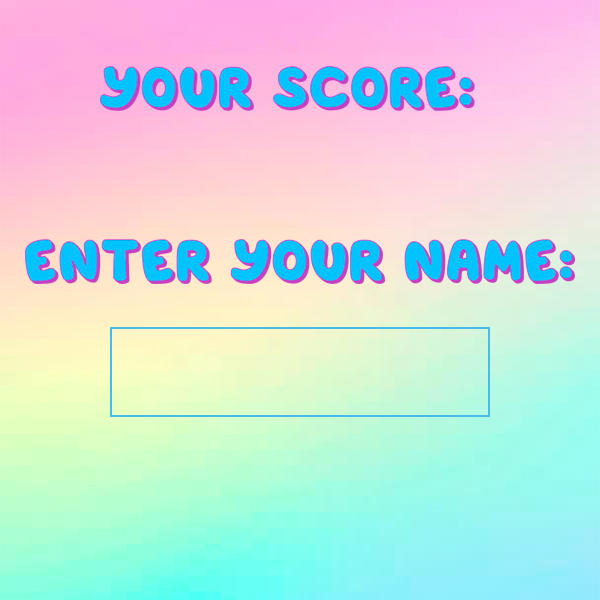
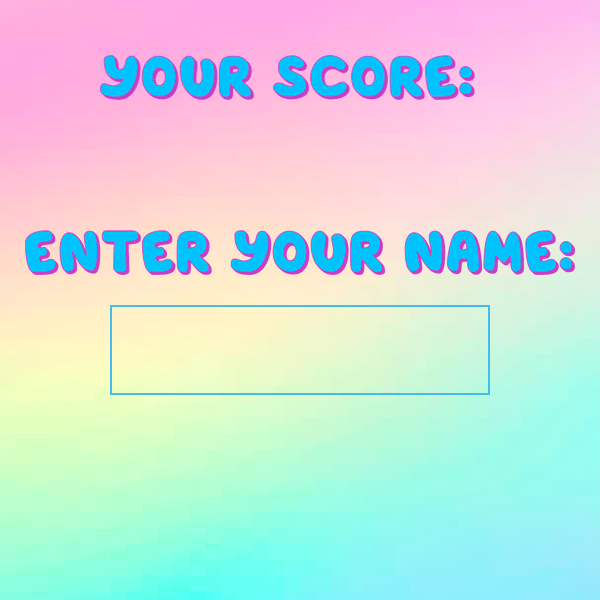
commit_9

diff --git a/methods.py b/methods.py
@@ -66,11 +66,13 @@ def update_buttons(buttons : list[dict], events : list[pg.event.Event], max_inde
 
                     if id == ENTER_BUTTON:
                         if globals.get_username_ok():
+                            username = globals.get_username()
+                            globals.set_username(username[:-1])
                             user_data = library.get_user_data()
-                            library.add_user_data(user_data)
+                            library.add_user_data(SCORES_CSV, user_data)
                             library.get_user_scores(SCORES_CSV)
                             globals.disable_instances()
-                            globals.set_home_on(True)
+                            globals.set_reset_on(True)
 
 
 def update_question(question : dict):
@@ -151,8 +153,7 @@ def update_gameover(events : list[pg.event.Event]):
 
     if time == 0:
         globals.disable_instances()
-        globals.set_reset_on(True)
-        # globals.set_username_on(True)
+        globals.set_username_on(True)
 
 
 def update_scores(scores : list[dict], top : int=1):
@@ -171,31 +172,33 @@ def update_scores(scores : list[dict], top : int=1):
 
 
 def update_username(events : list[pg.event.Event]):
-    font_color = VIOLET
-    font_sys = pg.font.SysFont(FONT_SEGOE, FONT_SIZE_SCORES, BOLD_ENABLE)
     username = globals.get_username()
-    score = globals.get_score()
-    if username == VOID_STR : username += HYPHEN_STR
+    warning = globals.get_warning()
+    if username == VOID_STR : globals.set_username(HYPHEN_STR)
+    if warning == VOID_STR : globals.set_warning(WARNING_MIN_MAX)
 
     for e in events:
         if e.type == pg.KEYDOWN:
             if e.key == pg.K_BACKSPACE:
-                if len(username) > 1 : username = username[:-2] + HYPHEN_STR
+                if len(username) > 1:
+                    username = username[:-2] + HYPHEN_STR
+                    globals.set_username(username)
             else:
-                if not library.is_letter(e.unicode):
-                    globals.set_warning(WARNING_USE_LETTERS)
+                if not e.unicode == VOID_STR:
+                    if not library.is_letter(e.unicode):
+                        globals.set_warning(WARNING_USE_LETTERS)
+                    else:
+                        if len(username) - INT_1 < USERNAME_LEN_MAX:
+                            username = username[:-1] + e.unicode + HYPHEN_STR
+                            globals.set_username(username.upper())
+                        
+                        if len(username) - INT_1 < USERNAME_LEN_MIN:
+                            globals.set_warning(WARNING_MIN_MAX)
+                        else:
+                            globals.set_warning(WARNING_NAME_OK)
+                            globals.set_username_ok(True)
                 else:
-                    if len(username) - 1 < USERNAME_LEN_MAX:
-                        username = username[:-1] + e.unicode + HYPHEN_STR
-                        globals.set_username(username)
-        else:
-            if len(username) < USERNAME_LEN_MIN:
-                globals.set_warning(WARNING_MIN_MAX)
-            else:
-                globals.set_warning(WARNING_NAME_OK)
-                globals.set_username_ok(True)
-
-    
+                    globals.set_warning(WARNING_USE_LETTERS)
 
 # ------------------------------------------------------------------------------------------- #
 
@@ -297,18 +300,37 @@ def draw_game(screen : pg.surface.Surface, questions : list[dict], labels : list
     
 
 def draw_username(screen : pg.surface.Surface):
-    font_color = VIOLET
+    draw_username_itself(screen, font_color=VIOLET)
+    draw_username_score(screen, font_color=VIOLET)
+    draw_warning(screen)
+    
+
+def draw_username_itself(screen : pg.surface.Surface, font_color : tuple):
     font_sys = pg.font.SysFont(FONT_SEGOE, FONT_SIZE_SCORE, BOLD_ENABLE)
     score = globals.get_score()
     score_render = font_sys.render(str(score), True, font_color)
     rect = score_render.get_rect()
-    rect.x = X_USERNAME_SCORE
+    rect.x = (screen.get_width() - score_render.get_width()) / 2
     rect.y = Y_USERNAME_SCORE
     screen.blit(score_render, rect)
+
+
+def draw_username_score(screen : pg.surface.Surface, font_color : tuple):
     font_sys = pg.font.SysFont(FONT_SEGOE, FONT_SIZE_USERNAME, BOLD_ENABLE)
     username = globals.get_username()
     username_render = font_sys.render(username, True, font_color)
     rect = username_render.get_rect()
-    rect.x = X_USERNAME
+    rect.x = (screen.get_width() - username_render.get_width()) / 2
     rect.y = Y_USERNAME
     screen.blit(username_render, rect)
+
+
+def draw_warning(screen : pg.surface.Surface):
+    font_color = library.get_font_color()
+    font_sys = pg.font.SysFont(FONT_MV_BOLI, FONT_SIZE_WARNING)
+    warning = globals.get_warning()
+    warning_render = font_sys.render(f'{ASTERISK_STR}{warning}', True, font_color)
+    rect = warning_render.get_rect()
+    rect.x = (screen.get_width() - warning_render.get_width()) / 2
+    rect.y = Y_WARNING
+    screen.blit(warning_render, rect)

diff --git a/instances.py b/instances.py
@@ -90,10 +90,10 @@ def run_username(screen : pg.surface.Surface, events : list[pg.event.Event]):
     if globals.get_username_on():
         methods.update_background()
         methods.update_buttons(username_buttons, events)
-        methods.update_username(events) # -------------------FALTA
+        methods.update_username(events)
         methods.draw_background(screen, username_background)
-        methods.draw_buttons(screen, game_buttons)
-        methods.draw_username(screen) # -------------------FALTA
+        methods.draw_buttons(screen, username_buttons)
+        methods.draw_username(screen)
 
 
 def run_reset():
@@ -104,9 +104,10 @@ def run_reset():
         globals.set_score(SCORE_INIT)
         globals.set_play_time(PLAY_TIME)
         globals.set_gameover_time(GAMEOVER_TIME)
+        globals.set_username(VOID_STR)
         globals.disable_instances()
+        globals.set_username_ok(False)
         globals.set_home_on(True)
-        # FALTA RESETEAR USERNAME
 
 
 def execute(screen : pg.surface.Surface, events : list[pg.event.Event]):
@@ -116,5 +117,5 @@ def execute(screen : pg.surface.Surface, events : list[pg.event.Event]):
     run_stages(screen, events)
     run_game(screen, events)
     run_gameover(screen, events)
-    # run_username(screen, events)
+    run_username(screen, events)
     run_reset()

diff --git a/constants.py b/constants.py
@@ -88,8 +88,9 @@ X_INIT_OPT = 125
 Y_VAR = 40
 
 # USERNAME INIT POSITIONS
-X_USERNAME_SCORE = 0
-Y_USERNAME_SCORE = 0
+Y_USERNAME_SCORE = 100
+Y_USERNAME = 310
+Y_WARNING = 400
 
 # SCORES TABLE INIT POSITIONS
 X_POS = 85
@@ -102,9 +103,9 @@ Y_VAR_TABLE = 34
 # GENERIC STRINGS
 VOID_STR = ''
 SPACE_STR = ' '
-BREAK_STR = '\n'
 HYPHEN_STR = '_'
 COMMA_STR = ','
+ASTERISK_STR = '*'
 
 # EVENTS
 EVENT_1000MS = pg.USEREVENT
@@ -136,12 +137,14 @@ SCORE_RENDER = 'score_render'
 # TEXT
 FONT_COURIER = 'Courier New'
 FONT_SEGOE = 'Segoe Print'
+FONT_MV_BOLI = 'MV Boli'
 FONT_SIZE_QUEST = 28
 FONT_SIZE_OPT = 24
 FONT_SIZE_LAB = 20
 FONT_SIZE_SCORES = 25
 FONT_SIZE_USERNAME = 48
 FONT_SIZE_SCORE = 60
+FONT_SIZE_WARNING = 24
 BOLD_ENABLE = True
 OPTIONS = [1,2,3,4]
 QUESTION_RENDER = 'question_render'
@@ -156,6 +159,8 @@ BLUE = (10,0,204)
 WHITE = (255,255,255)
 AQUA = (0,190,200)
 VIOLET = (145,25,255)
+RED = (255,0,0)
+GREEN = (0,255,0)
 
 # WARNINGS
 WARNING_MIN_MAX = 'Use at least 3 characters and 8 as maximum'

diff --git a/library.py b/library.py
@@ -144,8 +144,8 @@ def get_blocks(string : str, len_max : int) -> list[str]:
     return blocks
 
 
-def get_font_color() -> None | tuple:
-    font_color = None
+def get_font_color() -> tuple:
+    font_color = WHITE
 
     if globals.get_avengers_on():
         font_color = YELLOW
@@ -153,6 +153,13 @@ def get_font_color() -> None | tuple:
         font_color = BLUE
     elif globals.get_starwars_on():
         font_color = WHITE
+    elif globals.get_username_on():
+        warning = globals.get_warning()
+
+        if warning in [WARNING_MIN_MAX, WARNING_USE_LETTERS]:
+            font_color = RED
+        elif warning == WARNING_NAME_OK:
+            font_color = GREEN
 
     return font_color
 
